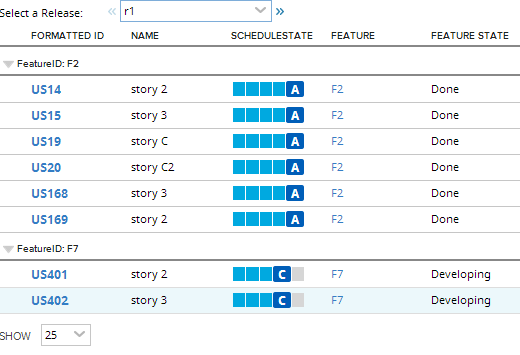
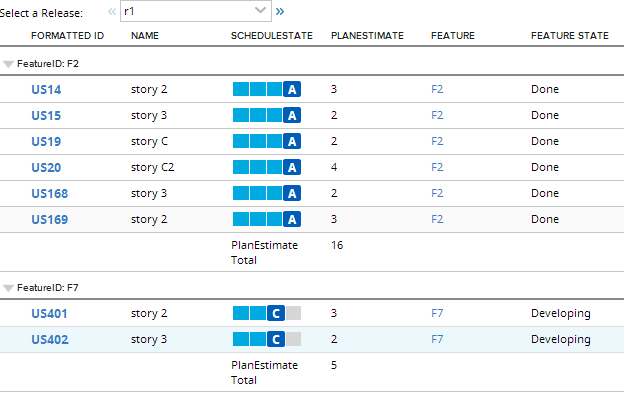
added summary rrow for PlanEstimate

diff --git a/deploy/App.html b/deploy/App.html
@@ -7,7 +7,7 @@
 
     <script type="text/javascript">
         Rally.onReady(function () {
-                Ext.define("CustomApp",{extend:"Rally.app.TimeboxScopedApp",componentCls:"app",scopeType:"release",comboboxConfig:{fieldLabel:"Select a Release:",labelWidth:100,width:300},onScopeChange:function(){this._makeStore()},_makeStore:function(){var filter=Ext.create("Rally.data.wsapi.Filter",{property:"Feature",operator:"!=",value:null});filter=filter.and(this.getContext().getTimeboxScope().getQueryFilter()),Ext.create("Rally.data.wsapi.Store",{model:"UserStory",fetch:["ObjectID","FormattedID","Name","ScheduleState","Feature"],autoLoad:!0,filters:[filter],listeners:{load:this._onDataLoaded,scope:this}})},_onDataLoaded:function(store,records){if(0===records.length)this._notifyNoStories();else{this._notifier&&this._notifier.destroy();var that=this,promises=[];_.each(records,function(story){promises.push(that._getFeature(story,that))}),Deft.Promise.all(promises).then({success:function(results){that._stories=results,that._makeGrid()}})}},_getFeature:function(story,scope){var deferred=Ext.create("Deft.Deferred"),that=scope,featureOid=story.get("Feature").ObjectID;return Rally.data.ModelFactory.getModel({type:"PortfolioItem/Feature",scope:this,success:function(model,operation){model.load(featureOid,{scope:this,success:function(record,operation){var featureState=record.get("State")?record.get("State")._refObjectName:"None",featureFid=record.get("FormattedID"),storyRef=story.get("_ref"),storyOid=story.get("ObjectID"),storyFid=story.get("FormattedID"),storyBlocked=story.get("Blocked"),blockedReason=story.get("BlockedReason"),storyName=story.get("Name"),storyState=story.get("ScheduleState"),feature=story.get("Feature");result={_ref:storyRef,ObjectID:storyOid,FormattedID:storyFid,Name:storyName,ScheduleState:storyState,Blocked:storyBlocked,BlockedReason:blockedReason,Feature:feature,FeatureState:featureState,FeatureID:featureFid},deferred.resolve(result)}})}}),deferred},_makeGrid:function(){var that=this;console.log(that._stories),that._grid&&that._grid.destroy();var gridStore=Ext.create("Rally.data.custom.Store",{data:that._stories,groupField:"FeatureID",pageSize:1e3});that._grid=Ext.create("Rally.ui.grid.Grid",{itemId:"storyGrid",store:gridStore,features:[{ftype:"grouping"}],enableBlockedReasonPopover:!1,columnCfgs:[{text:"Formatted ID",dataIndex:"FormattedID",xtype:"templatecolumn",tpl:Ext.create("Rally.ui.renderer.template.FormattedIDTemplate")},{text:"Name",dataIndex:"Name"},{text:"ScheduleState",dataIndex:"ScheduleState",xtype:"templatecolumn",tpl:Ext.create("Rally.ui.renderer.template.ScheduleStateTemplate",{states:["Custom 1","Defined","In-Progress","Completed","Accepted"],field:{name:"ScheduleState"}})},{text:"Feature",dataIndex:"Feature",renderer:function(val,meta,record){return'<a href="https://rally1.rallydev.com/#/detail/portfolioitem/feature/'+record.get("Feature").ObjectID+'" target="_blank">'+record.get("Feature").FormattedID+"</a>"}},{text:"Feature State",dataIndex:"FeatureState"}]}),that.add(that._grid),that._grid.reconfigure(gridStore)},_notifyNoStories:function(){this._grid&&this._grid.destroy(),this._notifier&&this._notifier.destroy(),this._notifier=Ext.create("Ext.Container",{xtype:"container",itemId:"notifyContainer",html:"No Stories found matching selection."}),this.add(this._notifier)}});
+                Ext.define("CustomApp",{extend:"Rally.app.TimeboxScopedApp",componentCls:"app",scopeType:"release",comboboxConfig:{fieldLabel:"Select a Release:",labelWidth:100,width:300},onScopeChange:function(){this._makeStore()},_makeStore:function(){var filter=Ext.create("Rally.data.wsapi.Filter",{property:"Feature",operator:"!=",value:null});filter=filter.and(this.getContext().getTimeboxScope().getQueryFilter()),Ext.create("Rally.data.wsapi.Store",{model:"UserStory",fetch:["ObjectID","FormattedID","Name","ScheduleState","Feature","PlanEstimate"],autoLoad:!0,filters:[filter],listeners:{load:this._onDataLoaded,scope:this}})},_onDataLoaded:function(store,records){if(0===records.length)this._notifyNoStories();else{this._notifier&&this._notifier.destroy();var that=this,promises=[];_.each(records,function(story){promises.push(that._getFeature(story,that))}),Deft.Promise.all(promises).then({success:function(results){that._stories=results,that._makeGrid()}})}},_getFeature:function(story,scope){var deferred=Ext.create("Deft.Deferred"),that=scope,featureOid=story.get("Feature").ObjectID;return Rally.data.ModelFactory.getModel({type:"PortfolioItem/Feature",scope:this,success:function(model,operation){model.load(featureOid,{scope:this,success:function(record,operation){var featureState=record.get("State")?record.get("State")._refObjectName:"None",featureFid=record.get("FormattedID"),storyRef=story.get("_ref"),storyOid=story.get("ObjectID"),storyFid=story.get("FormattedID"),storyPlanEstimate=story.get("PlanEstimate"),storyName=story.get("Name"),storyState=story.get("ScheduleState"),feature=story.get("Feature");result={_ref:storyRef,ObjectID:storyOid,FormattedID:storyFid,Name:storyName,PlanEstimate:storyPlanEstimate,ScheduleState:storyState,Feature:feature,FeatureState:featureState,FeatureID:featureFid},deferred.resolve(result)}})}}),deferred},_makeGrid:function(){var that=this;console.log(that._stories),that._grid&&that._grid.destroy();var gridStore=Ext.create("Rally.data.custom.Store",{data:that._stories,groupField:"FeatureID",pageSize:1e3});that._grid=Ext.create("Rally.ui.grid.Grid",{itemId:"storyGrid",store:gridStore,features:[{ftype:"groupingsummary"}],enableBlockedReasonPopover:!1,minHeight:500,columnCfgs:[{text:"Formatted ID",dataIndex:"FormattedID",xtype:"templatecolumn",tpl:Ext.create("Rally.ui.renderer.template.FormattedIDTemplate")},{text:"Name",dataIndex:"Name"},{text:"ScheduleState",dataIndex:"ScheduleState",xtype:"templatecolumn",tpl:Ext.create("Rally.ui.renderer.template.ScheduleStateTemplate",{states:["Defined","In-Progress","Completed","Accepted"],field:{name:"ScheduleState"}}),summaryRenderer:function(){return"PlanEstimate Total"}},{text:"PlanEstimate",dataIndex:"PlanEstimate",summaryType:"sum"},{text:"Feature",dataIndex:"Feature",renderer:function(val,meta,record){return'<a href="https://rally1.rallydev.com/#/detail/portfolioitem/feature/'+record.get("Feature").ObjectID+'" target="_blank">'+record.get("Feature").FormattedID+"</a>"}},{text:"Feature State",dataIndex:"FeatureState"}]}),that.add(that._grid),that._grid.reconfigure(gridStore)},_notifyNoStories:function(){this._grid&&this._grid.destroy(),this._notifier&&this._notifier.destroy(),this._notifier=Ext.create("Ext.Container",{xtype:"container",itemId:"notifyContainer",html:"No Stories found matching selection."}),this.add(this._notifier)}});
 
             Rally.launchApp('CustomApp', {
                 name:"Stories By Release Grouped By Feature",

diff --git a/App.js b/App.js
@@ -22,7 +22,7 @@ Ext.define('CustomApp', {
          
         Ext.create('Rally.data.wsapi.Store', {
                 model: 'UserStory',
-                fetch: ['ObjectID', 'FormattedID', 'Name', 'ScheduleState', 'Feature'],
+                fetch: ['ObjectID', 'FormattedID', 'Name', 'ScheduleState', 'Feature', 'PlanEstimate'],
                 autoLoad: true,
                 filters: [filter],
                 listeners: {
@@ -73,8 +73,7 @@ Ext.define('CustomApp', {
                         var storyRef = story.get('_ref');
                         var storyOid  = story.get('ObjectID');
                         var storyFid = story.get('FormattedID');
-                        var storyBlocked = story.get('Blocked');
-                        var blockedReason = story.get('BlockedReason');
+                        var storyPlanEstimate = story.get('PlanEstimate');
                         var storyName  = story.get('Name');
                         var storyState = story.get('ScheduleState');
                         var feature = story.get('Feature');
@@ -84,9 +83,8 @@ Ext.define('CustomApp', {
                                     "ObjectID"      : storyOid,
                                     "FormattedID"   : storyFid,
                                     "Name"          : storyName,
+                                    "PlanEstimate"  : storyPlanEstimate,
                                     "ScheduleState" : storyState,
-                                    "Blocked"       : storyBlocked,
-                                    "BlockedReason" : blockedReason,
                                     "Feature"       : feature,
                                     "FeatureState"  : featureState,
                                     "FeatureID"     : featureFid  
@@ -115,8 +113,9 @@ Ext.define('CustomApp', {
         that._grid = Ext.create('Rally.ui.grid.Grid', {
             itemId: 'storyGrid',
             store: gridStore,
-            features: [{ftype:'grouping'}],
+            features: [{ftype:'groupingsummary'}],
             enableBlockedReasonPopover: false,
+            minHeight: 500,
             columnCfgs: [
                 {
                     text: 'Formatted ID', dataIndex: 'FormattedID', xtype: 'templatecolumn',
@@ -130,11 +129,18 @@ Ext.define('CustomApp', {
                     text: 'ScheduleState', dataIndex: 'ScheduleState', xtype: 'templatecolumn',
                         tpl: Ext.create('Rally.ui.renderer.template.ScheduleStateTemplate',
                             {
-                                states: ['Custom 1','Defined', 'In-Progress', 'Completed', 'Accepted'],
+                                states: ['Defined', 'In-Progress', 'Completed', 'Accepted'],
                                 field: {
                                     name: 'ScheduleState' 
                                 }
-                        })
+                        }),
+                        summaryRenderer: function() {
+                            return "PlanEstimate Total"; 
+                        }
+                },
+                {
+                    text: 'PlanEstimate', dataIndex: 'PlanEstimate',
+                    summaryType: 'sum'
                 },
                 {
                     text: 'Feature', dataIndex: 'Feature',

diff --git a/deploy/App-uncompressed.html b/deploy/App-uncompressed.html
@@ -31,7 +31,7 @@
          
         Ext.create('Rally.data.wsapi.Store', {
                 model: 'UserStory',
-                fetch: ['ObjectID', 'FormattedID', 'Name', 'ScheduleState', 'Feature'],
+                fetch: ['ObjectID', 'FormattedID', 'Name', 'ScheduleState', 'Feature', 'PlanEstimate'],
                 autoLoad: true,
                 filters: [filter],
                 listeners: {
@@ -82,8 +82,7 @@
                         var storyRef = story.get('_ref');
                         var storyOid  = story.get('ObjectID');
                         var storyFid = story.get('FormattedID');
-                        var storyBlocked = story.get('Blocked');
-                        var blockedReason = story.get('BlockedReason');
+                        var storyPlanEstimate = story.get('PlanEstimate');
                         var storyName  = story.get('Name');
                         var storyState = story.get('ScheduleState');
                         var feature = story.get('Feature');
@@ -93,9 +92,8 @@
                                     "ObjectID"      : storyOid,
                                     "FormattedID"   : storyFid,
                                     "Name"          : storyName,
+                                    "PlanEstimate"  : storyPlanEstimate,
                                     "ScheduleState" : storyState,
-                                    "Blocked"       : storyBlocked,
-                                    "BlockedReason" : blockedReason,
                                     "Feature"       : feature,
                                     "FeatureState"  : featureState,
                                     "FeatureID"     : featureFid  
@@ -124,8 +122,9 @@
         that._grid = Ext.create('Rally.ui.grid.Grid', {
             itemId: 'storyGrid',
             store: gridStore,
-            features: [{ftype:'grouping'}],
+            features: [{ftype:'groupingsummary'}],
             enableBlockedReasonPopover: false,
+            minHeight: 500,
             columnCfgs: [
                 {
                     text: 'Formatted ID', dataIndex: 'FormattedID', xtype: 'templatecolumn',
@@ -139,11 +138,18 @@
                     text: 'ScheduleState', dataIndex: 'ScheduleState', xtype: 'templatecolumn',
                         tpl: Ext.create('Rally.ui.renderer.template.ScheduleStateTemplate',
                             {
-                                states: ['Custom 1','Defined', 'In-Progress', 'Completed', 'Accepted'],
+                                states: ['Defined', 'In-Progress', 'Completed', 'Accepted'],
                                 field: {
                                     name: 'ScheduleState' 
                                 }
-                        })
+                        }),
+                        summaryRenderer: function() {
+                            return "PlanEstimate Total"; 
+                        }
+                },
+                {
+                    text: 'PlanEstimate', dataIndex: 'PlanEstimate',
+                    summaryType: 'sum'
                 },
                 {
                     text: 'Feature', dataIndex: 'Feature',
